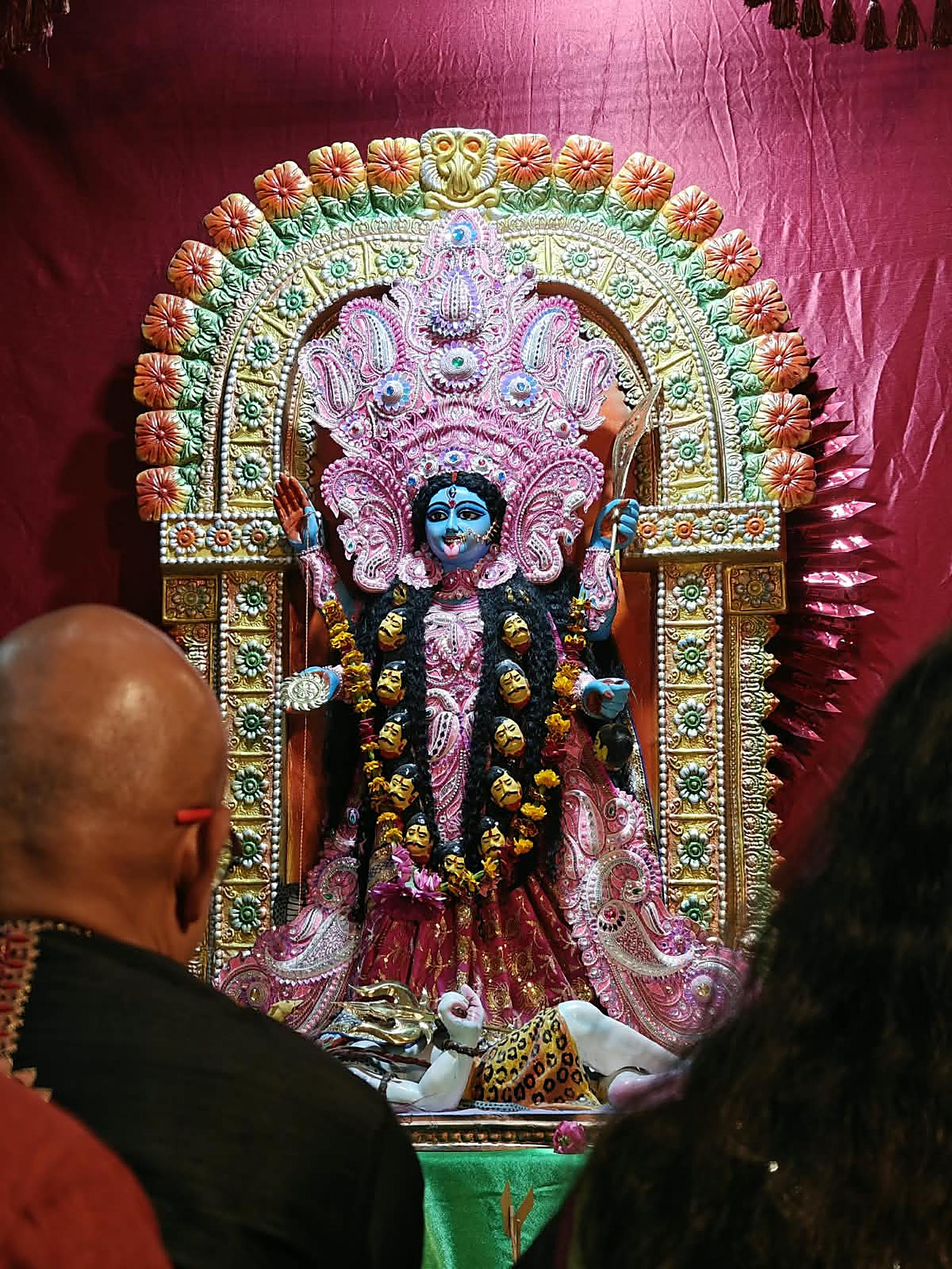
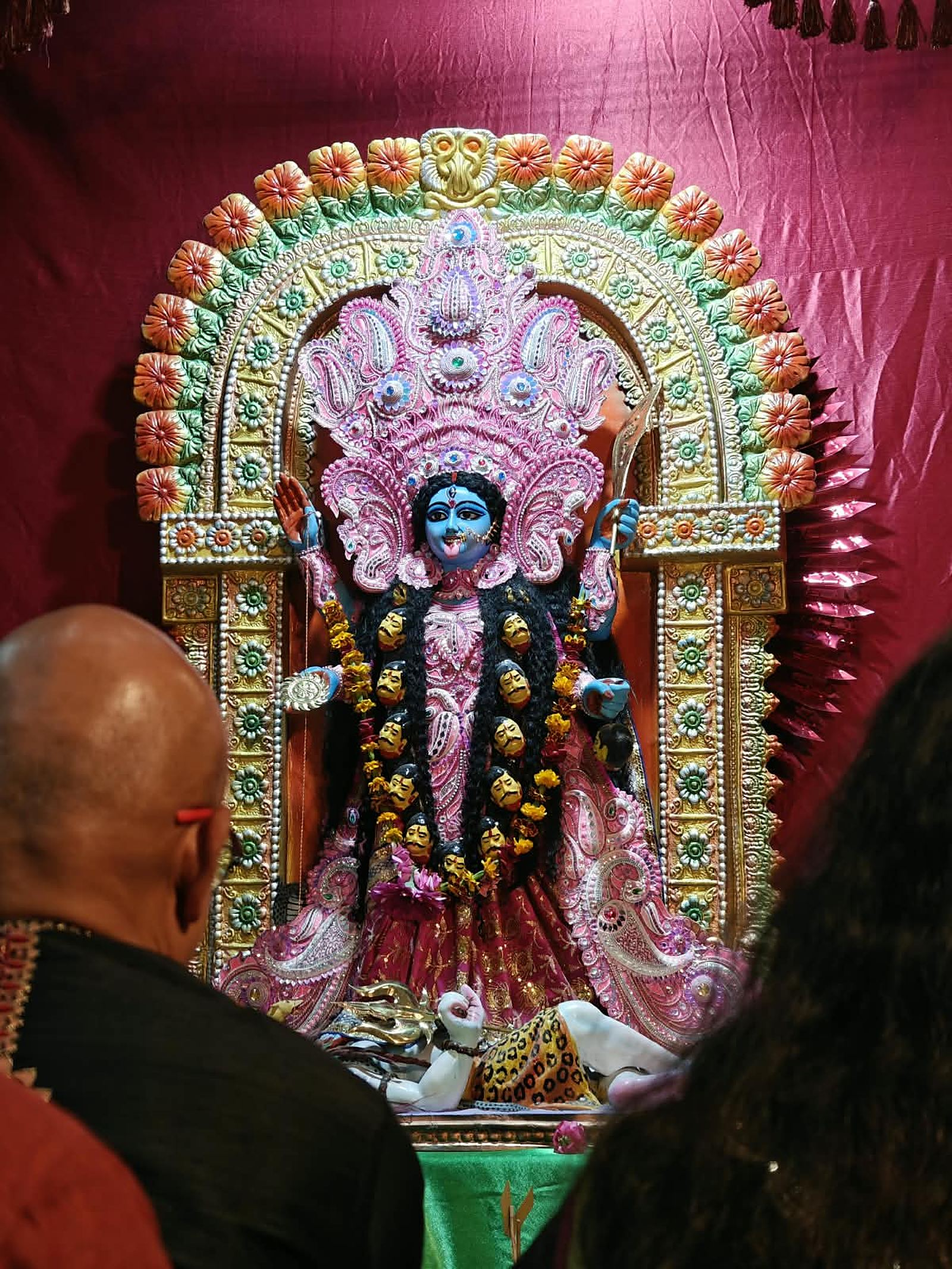
reduced sharpening of kali hero photo

Changed region(s): [[0.7812, 0.526, 0.8125, 0.6498]]

diff --git a/css/style.css b/css/style.css
@@ -244,12 +244,12 @@ html[lang="bn"] { --font-body: "Noto Sans Bengali", system-ui, sans-serif; }
   background:
     linear-gradient(90deg, rgb(20 8 8 / .8) 0%, rgb(20 8 8 / .62) 35%, rgb(20 8 8 / .45) 85%),
     /* Kali-Pratima: Ausschnitt so gewählt, dass das Gesicht zwischen Schrift und Rad liegt */
-    url("../images/hero-kali.jpg?v=6") center 40% / cover no-repeat,
+    url("../images/hero-kali.jpg?v=7") center 40% / cover no-repeat,
     #2A0E0E;
 }
 @media (max-width: 760px) {
   .hero {
-    background-image: linear-gradient(rgb(20 8 8 / .7), rgb(20 8 8 / .82)), url("../images/hero-kali.jpg?v=6");
+    background-image: linear-gradient(rgb(20 8 8 / .7), rgb(20 8 8 / .82)), url("../images/hero-kali.jpg?v=7");
     background-size: auto, cover;
     background-position: center, center 40%;
   }

diff --git a/datenschutz.html b/datenschutz.html
@@ -8,7 +8,7 @@
   <title>Datenschutz · Bengalisch-Österreichischer Hinduistischer Kulturverein</title>
   <link rel="stylesheet" href="https://fonts.googleapis.com/css2?family=Tiro+Bangla&family=Hind+Siliguri:wght@400;600&display=swap">
   <link rel="stylesheet" href="https://fonts.googleapis.com/css2?family=Noto+Sans+Bengali:wght@400;500;600&display=swap">
-  <link rel="stylesheet" href="css/style.css?v=21">
+  <link rel="stylesheet" href="css/style.css?v=22">
 </head>
 <body>
   <header class="site-header">

diff --git a/impressum.html b/impressum.html
@@ -8,7 +8,7 @@
   <title>Impressum · Bengalisch-Österreichischer Hinduistischer Kulturverein</title>
   <link rel="stylesheet" href="https://fonts.googleapis.com/css2?family=Tiro+Bangla&family=Hind+Siliguri:wght@400;600&display=swap">
   <link rel="stylesheet" href="https://fonts.googleapis.com/css2?family=Noto+Sans+Bengali:wght@400;500;600&display=swap">
-  <link rel="stylesheet" href="css/style.css?v=21">
+  <link rel="stylesheet" href="css/style.css?v=22">
 </head>
 <body>
   <header class="site-header">

diff --git a/index.html b/index.html
@@ -11,7 +11,7 @@
   <link rel="preconnect" href="https://fonts.gstatic.com" crossorigin>
   <link rel="stylesheet" href="https://fonts.googleapis.com/css2?family=Tiro+Bangla:ital@0;1&family=Hind+Siliguri:wght@400;500;600&display=swap">
   <link rel="stylesheet" href="https://fonts.googleapis.com/css2?family=Noto+Sans+Bengali:wght@400;500;600&display=swap">
-  <link rel="stylesheet" href="css/style.css?v=21">
+  <link rel="stylesheet" href="css/style.css?v=22">
 </head>
 <body>
 
